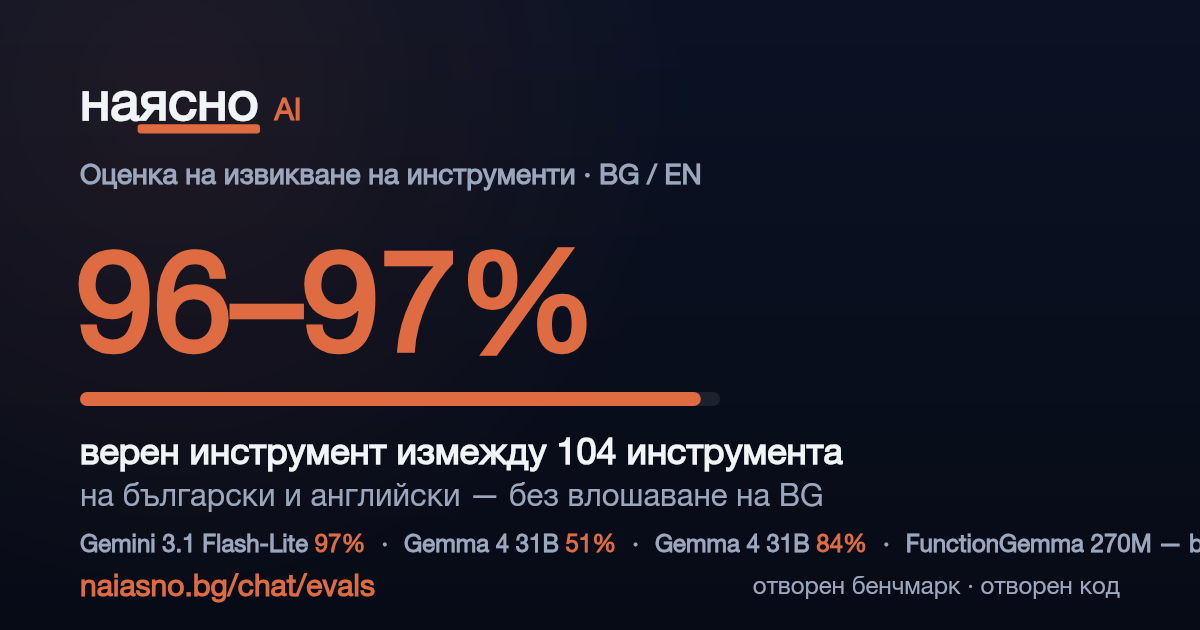
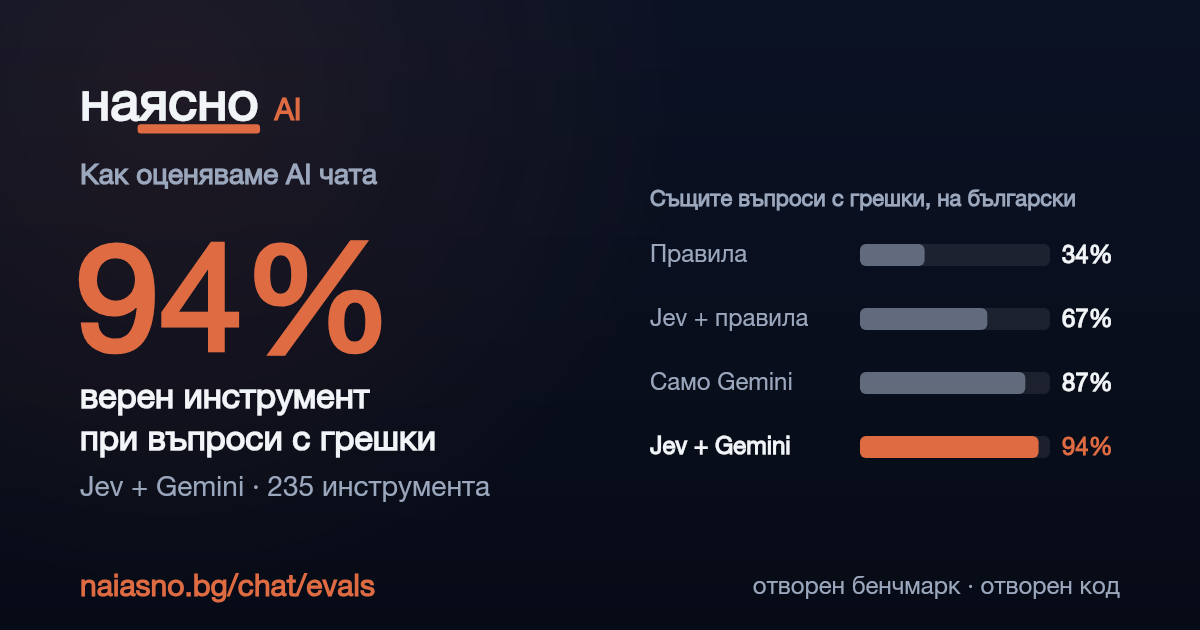
evals page: refresh the OG image from the page's own manifest
The card still showed the retired fc_eval.json model comparison: Gemini
3.1 / Gemma / FunctionGemma, "104 tools", with the comparison line
running off the right edge. It read a different artifact than the page.

It now reads data/ai/evals/index.json, the page's own manifest. It shows
the page's typo result on Bulgarian questions: Jev + Gemini 94% as the
hero, beside the rules 34%, Jev + rules 67% and Gemini alone 87%, plus
the live tool count (235). readBars() throws instead of falling back
when the figures are missing, and a test pins the card to the manifest.

diff --git a/scripts/brand/generate_evals_og.ts b/scripts/brand/generate_evals_og.ts
@@ -1,73 +1,75 @@
 /**
- * OG image (1200×630) for the /evals benchmark page (ai.electionsbg.com/evals).
+ * OG image (1200×630) for the chat evals page (naiasno.bg/chat/evals).
  *
  *   npx tsx scripts/brand/generate_evals_og.ts
  *
- * Number-led, on-brand (navy + coral, the site theme), with a small 3-model
- * comparison so it reads as a benchmark at a glance. Crisp Cyrillic via
- * @napi-rs/canvas. Writes ai/assets/evals-og.png, which vite.config.ai.ts copies
- * into dist-ai and the generated evals.html points og:image at.
+ * Number-led, on-brand (navy + coral). Writes public/og/chat-evals.png, which
+ * ships through the static-asset copy; the postbuild image pass
+ * (scripts/images/optimize.ts) turns it into the .webp the page's og:image
+ * names. Also ai/assets/evals-og.png, for the standalone AI build.
  *
- * The headline numbers are read from data/ai/evals/fc_eval.json so the image
- * stays in sync if the eval is re-run.
+ * ⚠ READS THE PUBLISHED MANIFEST, never a hard-coded figure: every number comes
+ * from data/ai/evals/index.json — the same file the page renders — so the card
+ * cannot say something the page no longer does. It showed the retired
+ * fc_eval.json model comparison (Gemini 3.1 / Gemma / FunctionGemma, "104
+ * tools") for weeks after the page had moved on, because it read a different
+ * artifact than the page did.
+ *
+ * The story it tells is the page's: on questions written with typos, four ways
+ * to pick a tool, on the same questions (Bulgarian).
  */
 import { createCanvas, type SKRSContext2D } from "@napi-rs/canvas";
-import { existsSync, readFileSync, writeFileSync } from "node:fs";
+import { readFileSync, writeFileSync } from "node:fs";
 import { dirname, join } from "node:path";
 import { fileURLToPath } from "node:url";
 import { drawWordmark, FONT, THEME } from "../posts/cardKit";
 import { SITE_HOST } from "../../src/lib/siteOrigin";
+import { TOOLS } from "../../ai/tools/registry";
 
 const ROOT = join(dirname(fileURLToPath(import.meta.url)), "..", "..");
 const OUT = join(ROOT, "ai/assets/evals-og.png");
 const OUT_PUBLIC = join(ROOT, "public/og/chat-evals.png");
-const ARTIFACT = join(ROOT, "data/ai/evals/fc_eval.json");
+const MANIFEST = join(ROOT, "data/ai/evals/index.json");
+/** The cell the card is about: Bulgarian, written with typos. */
+const CELL = "all|bg:typo";
 
 type Ctx = SKRSContext2D;
 const pal = THEME.dark;
 
-// Short model labels + their BG tool-selection accuracy, from the artifact.
-type Bar = { label: string; pct: number };
-const readBars = (): { headline: string; bars: Bar[] } => {
-  const fallback = {
-    headline: "96–97%",
-    bars: [
-      { label: "Gemini 3.1 Flash-Lite", pct: 97 },
-      { label: "Gemma 4 31B", pct: 51 },
-      { label: "FunctionGemma 270M", pct: 2 },
-    ],
-  };
-  if (!existsSync(ARTIFACT)) return fallback;
-  try {
-    const d = JSON.parse(readFileSync(ARTIFACT, "utf8"));
-    const short = (label: string) =>
-      label
-        .replace(/\s*\(.*\)\s*/g, "")
-        .replace("Flash-Lite", "Flash-Lite")
-        .trim();
-    const bars: Bar[] = d.models
-      .filter((m: { perLang?: unknown }) => m.perLang)
-      .map((m: { label: string; perLang: { bg: { toolAcc: number } } }) => ({
-        label: short(m.label),
-        pct: Math.round(m.perLang.bg.toolAcc * 100),
-      }));
-    const gem = d.models.find((m: { label: string }) =>
-      m.label.includes("Gemini"),
-    );
-    const en = Math.round(gem.perLang.en.toolAcc * 100);
-    const bg = Math.round(gem.perLang.bg.toolAcc * 100);
-    const headline =
-      en === bg ? `${bg}%` : `${Math.min(en, bg)}–${Math.max(en, bg)}%`;
-    return { headline, bars: bars.length ? bars : fallback.bars };
-  } catch {
-    return fallback;
-  }
+export type Bar = { label: string; pct: number; hero?: boolean };
+
+type Manifest = {
+  robustness?: {
+    summary: Record<
+      string,
+      { rules: number | null; gemini: number | null; jevGemini: number | null }
+    >;
+    noAi?: Record<string, { right: number }>;
+  } | null;
+};
+
+/** The four methods on the card's cell, in the order the page reads them.
+ *  Throws rather than drawing a card from a manifest that lacks them — a
+ *  fallback figure is exactly how the old card went stale. */
+export const readBars = (m: Manifest): Bar[] => {
+  const s = m.robustness?.summary?.[CELL];
+  const noAi = m.robustness?.noAi?.[CELL];
+  if (!s || s.rules == null || s.gemini == null || s.jevGemini == null || !noAi)
+    throw new Error(`${MANIFEST} has no robustness figures for ${CELL}`);
+  const pct = (v: number) => Math.round(v * 100);
+  return [
+    { label: "Правила", pct: pct(s.rules) },
+    { label: "Jev + правила", pct: pct(noAi.right) },
+    { label: "Само Gemini", pct: pct(s.gemini) },
+    { label: "Jev + Gemini", pct: pct(s.jevGemini), hero: true },
+  ];
 };
 
 const main = () => {
   const W = 1200;
   const H = 630;
-  const { headline, bars } = readBars();
+  const bars = readBars(JSON.parse(readFileSync(MANIFEST, "utf8")));
+  const hero = bars.find((b) => b.hero)!;
   const canvas = createCanvas(W, H);
   const ctx = canvas.getContext("2d") as unknown as Ctx;
 
@@ -98,50 +100,46 @@ const main = () => {
   // kicker
   ctx.font = `600 28px ${FONT}`;
   ctx.fillStyle = pal.muted;
-  ctx.fillText("Оценка на извикване на инструменти · BG / EN", PAD, 184);
+  ctx.fillText("Как оценяваме AI чата", PAD, 184);
 
-  // hero number
-  ctx.font = `800 140px ${FONT}`;
+  // hero number (left column)
+  ctx.font = `800 150px ${FONT}`;
   ctx.fillStyle = pal.accent;
-  ctx.fillText(headline, PAD - 4, 350);
+  ctx.fillText(`${hero.pct}%`, PAD - 4, 350);
 
-  // accent progress track under the hero (filled to the top score)
-  const top = Math.max(...bars.map((b) => b.pct));
-  const trackY = 392;
-  const trackW = 640;
-  ctx.fillStyle = "rgba(255,255,255,0.08)";
-  roundRect(ctx, PAD, trackY, trackW, 14, 7);
-  ctx.fill();
-  ctx.fillStyle = pal.accent;
-  roundRect(ctx, PAD, trackY, (trackW * top) / 100, 14, 7);
-  ctx.fill();
-
-  // sub-label (two lines)
-  ctx.font = `600 36px ${FONT}`;
+  ctx.font = `600 34px ${FONT}`;
   ctx.fillStyle = pal.text;
-  ctx.fillText("верен инструмент измежду 104 инструмента", PAD, 464);
-  ctx.font = `500 31px ${FONT}`;
+  ctx.fillText("верен инструмент", PAD, 408);
+  ctx.fillText("при въпроси с грешки", PAD, 450);
+  ctx.font = `500 28px ${FONT}`;
   ctx.fillStyle = pal.muted;
-  ctx.fillText("на български и английски — без влошаване на BG", PAD, 506);
+  ctx.fillText(`Jev + Gemini · ${TOOLS.length} инструмента`, PAD, 496);
 
-  // one-line model comparison (legible at thumbnail size): label muted, % coral
-  let cx = PAD;
-  const cy = 552;
+  // right column: the four methods on the same questions, as bars
+  const X0 = 650;
+  const LABEL_W = 210;
+  const BAR_X = X0 + LABEL_W;
+  const BAR_W = W - PAD - BAR_X - 70; // leaves room for the % label
+  const ROW = 64;
+  const Y0 = 240;
+  ctx.font = `600 22px ${FONT}`;
+  ctx.fillStyle = pal.muted;
+  ctx.fillText("Същите въпроси с грешки, на български", X0, Y0 - 34);
   bars.forEach((b, i) => {
-    if (i > 0) {
-      ctx.font = `600 24px ${FONT}`;
-      ctx.fillStyle = pal.muted;
-      ctx.fillText("·", cx, cy);
-      cx += ctx.measureText("·").width + 16;
-    }
-    ctx.font = `600 24px ${FONT}`;
-    ctx.fillStyle = pal.muted;
-    ctx.fillText(b.label + " ", cx, cy);
-    cx += ctx.measureText(b.label + " ").width;
+    const y = Y0 + i * ROW;
+    ctx.textAlign = "left";
+    ctx.font = `${b.hero ? 700 : 500} 24px ${FONT}`;
+    ctx.fillStyle = b.hero ? pal.text : pal.muted;
+    ctx.fillText(b.label, X0, y + 22);
+    ctx.fillStyle = "rgba(255,255,255,0.08)";
+    roundRect(ctx, BAR_X, y + 4, BAR_W, 22, 6);
+    ctx.fill();
+    ctx.fillStyle = b.hero ? pal.accent : "rgba(154,167,189,0.55)";
+    roundRect(ctx, BAR_X, y + 4, Math.max(8, (BAR_W * b.pct) / 100), 22, 6);
+    ctx.fill();
     ctx.font = `800 24px ${FONT}`;
-    ctx.fillStyle = pal.accent;
-    ctx.fillText(`${b.pct}%`, cx, cy);
-    cx += ctx.measureText(`${b.pct}%`).width + 16;
+    ctx.fillStyle = b.hero ? pal.accent : pal.text;
+    ctx.fillText(`${b.pct}%`, BAR_X + BAR_W + 12, y + 23);
   });
 
   // bottom: url (left) + tagline (right)
@@ -157,8 +155,9 @@ const main = () => {
   const buf = canvas.toBuffer("image/png");
   writeFileSync(OUT, buf);
   writeFileSync(OUT_PUBLIC, buf);
-  console.error(`wrote ${OUT} (${headline}, ${bars.length} models)`);
-  console.error(`wrote ${OUT_PUBLIC}`);
+  console.error(
+    `wrote ${OUT_PUBLIC} (${bars.map((b) => `${b.label} ${b.pct}%`).join(", ")})`,
+  );
 };
 
 // local rounded-rect (cardKit's is not exported)
@@ -179,4 +178,4 @@ const roundRect = (
   ctx.closePath();
 };
 
-main();
+if (process.argv[1]?.endsWith("generate_evals_og.ts")) main();

diff --git a/scripts/brand/generate_evals_og.test.ts b/scripts/brand/generate_evals_og.test.ts
@@ -1,0 +1,32 @@
+// The evals OG card must say what the page says. It went stale once by reading
+// a different artifact than the page (the retired fc_eval.json comparison), so
+// it now reads the page's own manifest — and must refuse, not fall back, when
+// the figures are missing.
+import { readFileSync } from "node:fs";
+import { describe, expect, it } from "vitest";
+import { readBars } from "./generate_evals_og";
+
+const manifest = JSON.parse(readFileSync("data/ai/evals/index.json", "utf8"));
+
+describe("evals OG card", () => {
+  it("draws the page's own typo figures, Jev + Gemini as the hero", () => {
+    const s = manifest.robustness.summary["all|bg:typo"];
+    const noAi = manifest.robustness.noAi["all|bg:typo"];
+    const pct = (v: number) => Math.round(v * 100);
+    expect(readBars(manifest)).toEqual([
+      { label: "Правила", pct: pct(s.rules) },
+      { label: "Jev + правила", pct: pct(noAi.right) },
+      { label: "Само Gemini", pct: pct(s.gemini) },
+      { label: "Jev + Gemini", pct: pct(s.jevGemini), hero: true },
+    ]);
+  });
+
+  it("refuses rather than drawing a card without the figures", () => {
+    expect(() => readBars({ robustness: null })).toThrow(/robustness/);
+    expect(() =>
+      readBars({
+        robustness: { ...manifest.robustness, noAi: undefined },
+      }),
+    ).toThrow(/robustness/);
+  });
+});
